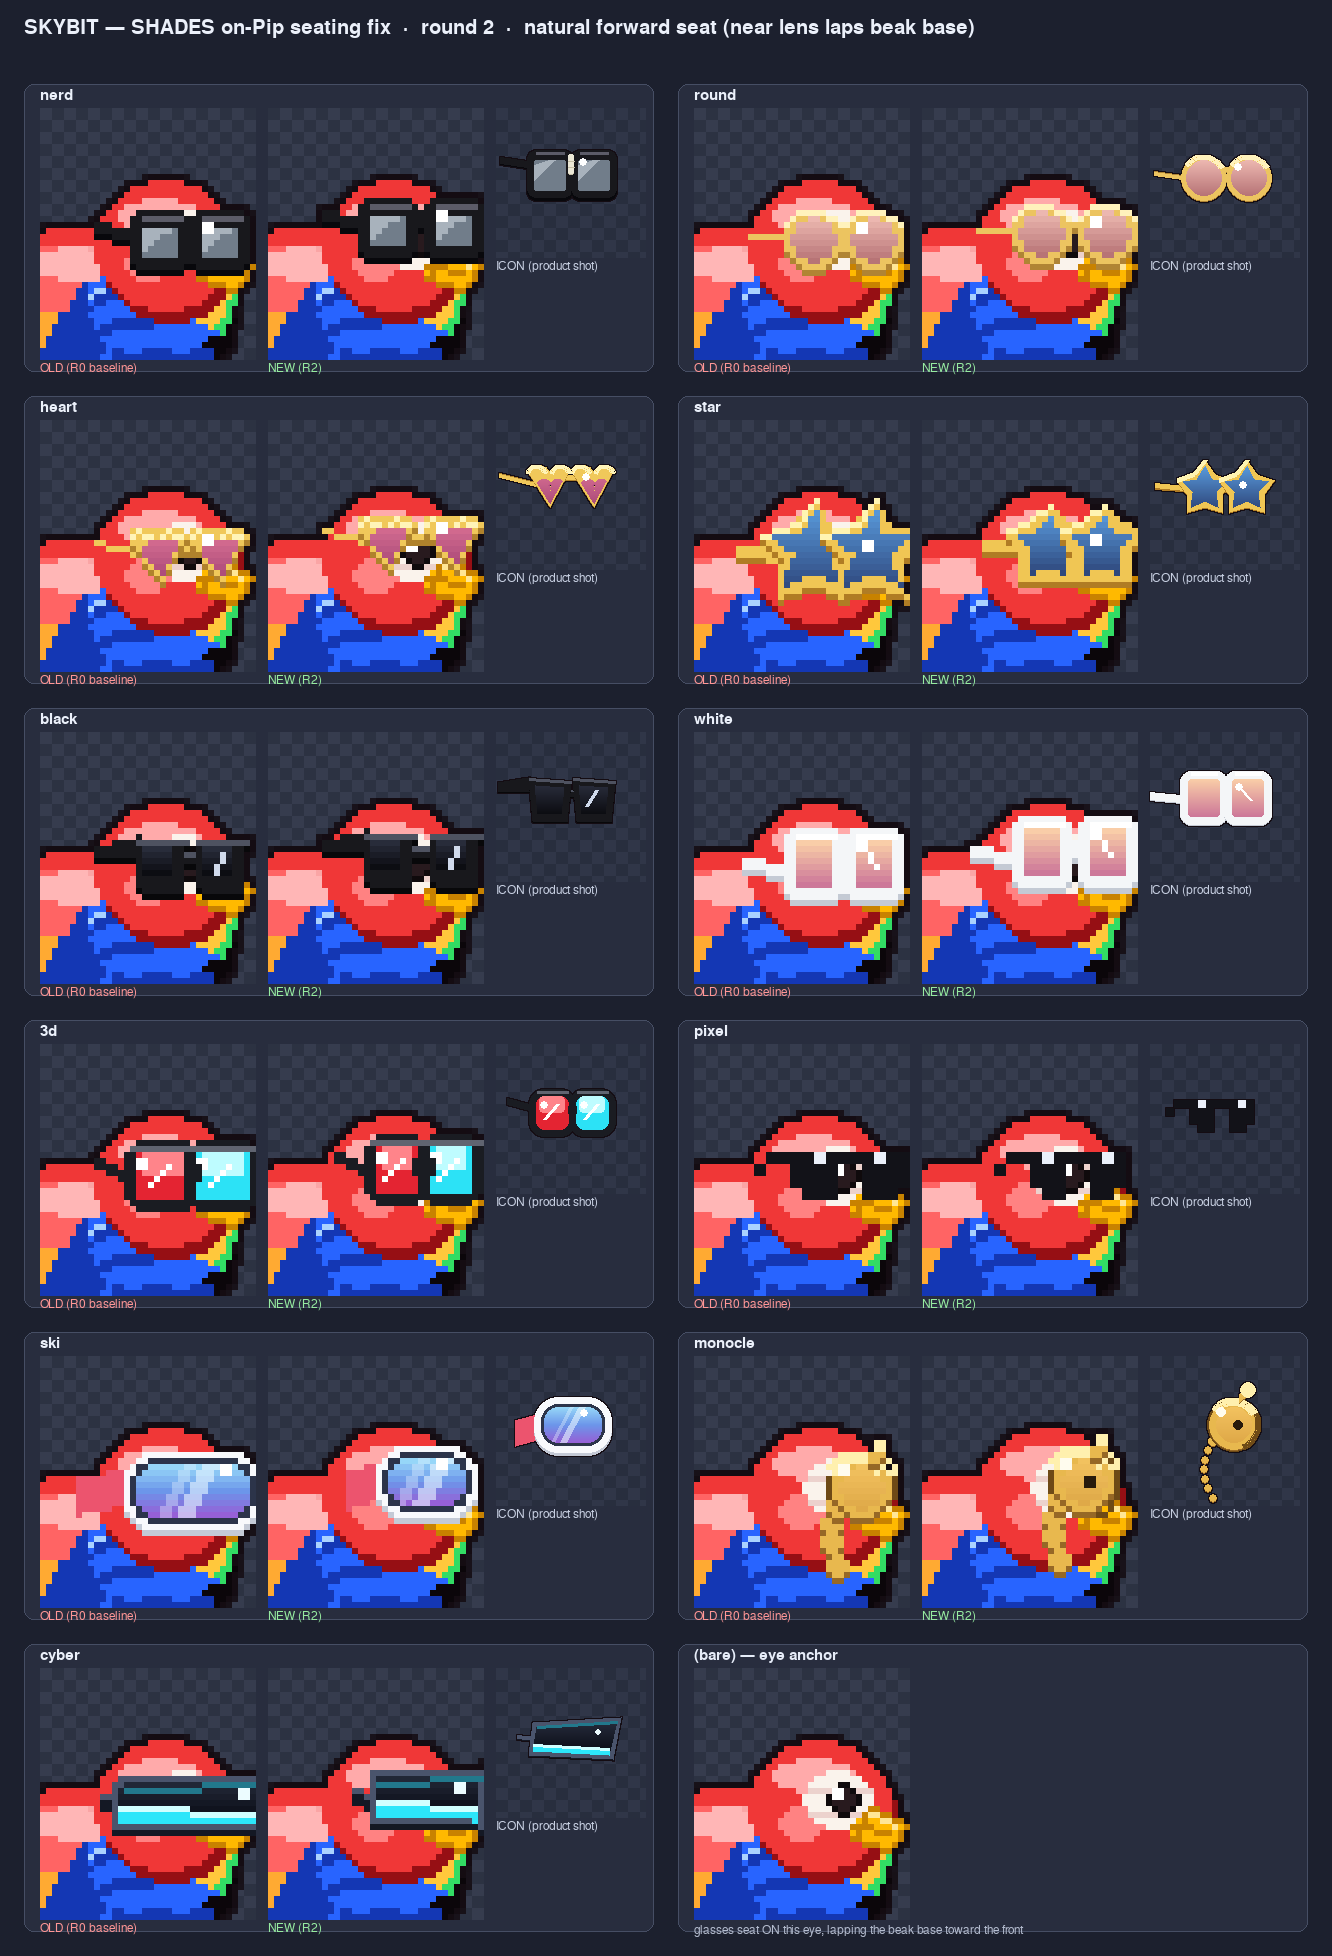
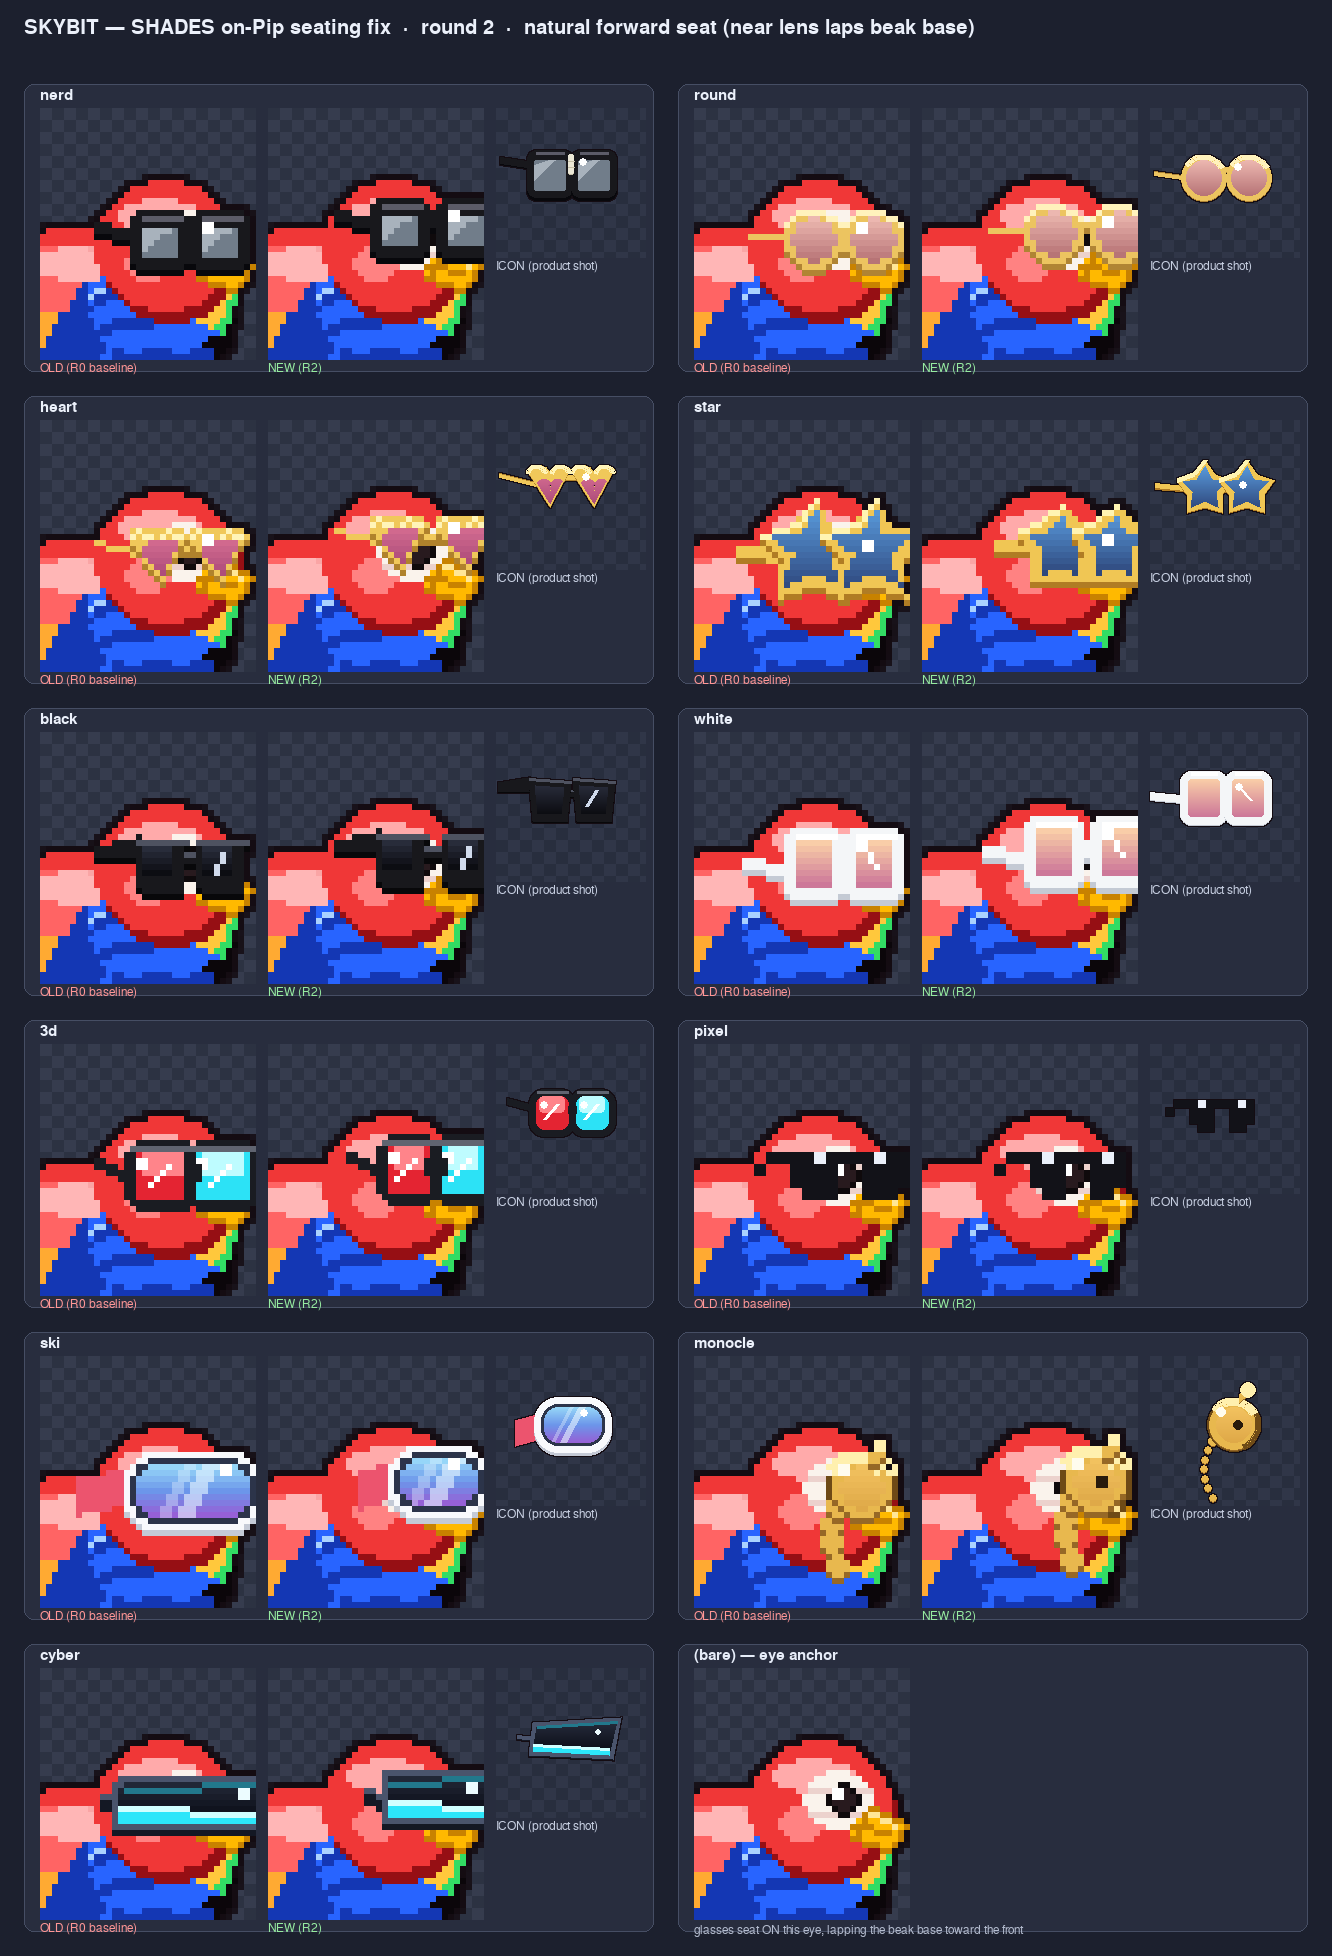
shades: nudge the in-game eyewear anchor +2px toward the beak
All 11 styles sat a touch far back over the eye. Ride the shared in-game
paint anchor forward (cx 51->53) so every style laps the beak base for a
naturally worn-forward seat, in one place rather than per-style. Product
ICONs are unaffected (they centre on their own canvas). Review sheet
regenerated to track the live anchor.

Claude-Session: https://claude.ai/code/session_01GzRCMDyuYDj6mxsvLLbTPo

diff --git a/tools/_shades_nudge_compare.py b/tools/_shades_nudge_compare.py
@@ -1,0 +1,112 @@
+"""Scratch before/after for a uniform rightward seat nudge of all 11 shades.
+
+Renders each style's on-Pip head crop at the CURRENT anchor (cx=51) beside the
+NUDGED anchor (cx=51+DX) so the few-pixel move toward the beak is obvious. The
+product ICON is unaffected by the anchor, so it isn't shown. Headless.
+
+Run:  SDL_VIDEODRIVER=dummy python tools/_shades_nudge_compare.py [DX]
+"""
+import os
+import sys
+
+os.environ.setdefault("SDL_VIDEODRIVER", "dummy")
+import pygame  # noqa: E402
+
+pygame.init()
+pygame.display.set_mode((1, 1))
+
+_ROOT = os.path.dirname(os.path.dirname(os.path.abspath(__file__)))
+if _ROOT not in sys.path:
+    sys.path.insert(0, _ROOT)
+
+from game import parrot, store_skins  # noqa: E402
+from game import (  # noqa: E402
+    shades_nerd, shades_round, shades_heart, shades_star, shades_black,
+    shades_white, shades_3d, shades_pixel, shades_ski, shades_monocle,
+    shades_cyber,
+)
+
+STYLES = [
+    ("nerd", shades_nerd), ("round", shades_round), ("heart", shades_heart),
+    ("star", shades_star), ("black", shades_black), ("white", shades_white),
+    ("3d", shades_3d), ("pixel", shades_pixel), ("ski", shades_ski),
+    ("monocle", shades_monocle), ("cyber", shades_cyber),
+]
+
+BASE_CX = 51
+
+
+def head_crop(fn, cx, zoom=6):
+    comp = pygame.Surface((store_skins.COMPOSITE_W, store_skins.COMPOSITE_H),
+                          pygame.SRCALPHA)
+    comp.blit(parrot._build_frame_bare(-8), (0, store_skins.PARROT_DY))
+    if fn:
+        fn(comp, cx, 40, 22, 1)
+    pip = parrot._add_outline(comp)
+    crop = pip.subsurface(pygame.Rect(28, 20, 36, 42)).copy()
+    return pygame.transform.scale(crop, (36 * zoom, 42 * zoom))
+
+
+def _checker(surf, rect, a=(54, 60, 78), b=(44, 50, 66), s=12):
+    for y in range(rect.top, rect.bottom, s):
+        for x in range(rect.left, rect.right, s):
+            c = a if ((x // s + y // s) % 2 == 0) else b
+            surf.fill(c, (x, y, min(s, rect.right - x), min(s, rect.bottom - y)))
+
+
+def main():
+    dx = int(sys.argv[1]) if len(sys.argv) > 1 else 2
+    pygame.font.init()
+    title_f = pygame.font.SysFont("Arial", 20, bold=True)
+    lab_f = pygame.font.SysFont("Arial", 15, bold=True)
+    sub_f = pygame.font.SysFont("Arial", 12)
+
+    ZOOM = 6
+    cw, ch = 36 * ZOOM, 42 * ZOOM
+    CELL_W = cw * 2 + 48
+    CELL_H = ch + 40
+    COLS = 3
+    rows = (len(STYLES) + COLS - 1) // COLS
+    MARGIN = 24
+    TITLE_H = 60
+    W = MARGIN * 2 + COLS * CELL_W + (COLS - 1) * MARGIN
+    H = TITLE_H + MARGIN + rows * (CELL_H + MARGIN)
+
+    sheet = pygame.Surface((W, H))
+    sheet.fill((28, 32, 46))
+    sheet.blit(title_f.render(
+        f"SKYBIT — SHADES  ·  uniform rightward seat nudge  ·  +{dx}px toward the beak",
+        True, (235, 240, 250)), (MARGIN, 18))
+
+    for i, (name, mod) in enumerate(STYLES):
+        col, row = i % COLS, i // COLS
+        x = MARGIN + col * (CELL_W + MARGIN)
+        y = TITLE_H + MARGIN + row * (CELL_H + MARGIN)
+        cell = pygame.Rect(x, y, CELL_W, CELL_H)
+        pygame.draw.rect(sheet, (40, 45, 62), cell, border_radius=10)
+        pygame.draw.rect(sheet, (70, 78, 100), cell, 1, border_radius=10)
+
+        sheet.blit(lab_f.render(name, True, (235, 240, 250)),
+                   (cell.left + 16, cell.top + 4))
+
+        ox, ny = cell.left + 16, cell.top + 24
+        r_old = pygame.Rect(ox, ny, cw, ch)
+        _checker(sheet, r_old)
+        sheet.blit(head_crop(mod.draw_shades, BASE_CX, ZOOM), r_old.topleft)
+        sheet.blit(sub_f.render(f"NOW (cx={BASE_CX})", True, (255, 180, 150)),
+                   (ox, ny + ch + 2))
+
+        nx = ox + cw + 12
+        r_new = pygame.Rect(nx, ny, cw, ch)
+        _checker(sheet, r_new)
+        sheet.blit(head_crop(mod.draw_shades, BASE_CX + dx, ZOOM), r_new.topleft)
+        sheet.blit(sub_f.render(f"NUDGED (cx={BASE_CX + dx})", True, (150, 235, 160)),
+                   (nx, ny + ch + 2))
+
+    out = os.path.join(_ROOT, "docs", "shades", "nudge_right.png")
+    pygame.image.save(sheet, out)
+    print("wrote", out, sheet.get_size())
+
+
+if __name__ == "__main__":
+    main()

diff --git a/tools/_shades_round2_compare.py b/tools/_shades_round2_compare.py
@@ -24,7 +24,7 @@ _ROOT = os.path.dirname(os.path.dirname(os.path.abspath(__file__)))
 if _ROOT not in sys.path:
     sys.path.insert(0, _ROOT)
 
-from game import parrot, store_skins  # noqa: E402
+from game import parrot, store_skins, glasses_skins  # noqa: E402
 from game import (  # noqa: E402
     shades_nerd, shades_round, shades_heart, shades_star, shades_black,
     shades_white, shades_3d, shades_pixel, shades_ski, shades_monocle,
@@ -50,12 +50,12 @@ def _old_fn(name):
     return mod.draw_shades
 
 
-def head_crop(fn, zoom=7):
+def head_crop(fn, zoom=7, cx=glasses_skins._EYE_CX):
     comp = pygame.Surface((store_skins.COMPOSITE_W, store_skins.COMPOSITE_H),
                           pygame.SRCALPHA)
     comp.blit(parrot._build_frame_bare(-8), (0, store_skins.PARROT_DY))
     if fn:
-        fn(comp, 51, 40, 22, 1)
+        fn(comp, cx, 40, 22, 1)
     pip = parrot._add_outline(comp)
     crop = pip.subsurface(pygame.Rect(28, 20, 36, 42)).copy()
     return pygame.transform.scale(crop, (36 * zoom, 42 * zoom))
@@ -119,7 +119,7 @@ def main():
                        (cell.left + 16, cell.top + ch + 28))
             continue
 
-        old = head_crop(_old_fn(name), ZOOM)
+        old = head_crop(_old_fn(name), ZOOM, cx=51)
         new = head_crop(mod.draw_shades, ZOOM)
         icon = product_shot(mod.draw_shades)
 

diff --git a/game/glasses_skins.py b/game/glasses_skins.py
@@ -68,8 +68,10 @@ def _build_icon(draw_shades) -> pygame.Surface:
 # ── in-game look: Pip wearing the shades ─────────────────────────────────────
 # The bare-eyed build draws the plain eye at sprite (50, 20); _compose blits the
 # body at PARROT_DY=20, so the eye anchors at composite (50, 40). eye_w≈24
-# matches the span of the default aviators it replaces.
-_EYE_CX, _EYE_CY = 51, 40
+# matches the span of the default aviators it replaces. The anchor rides a couple
+# px forward of the eye centre so every style laps the beak base — worn eyewear
+# grips the face toward the front rather than floating back over the ear.
+_EYE_CX, _EYE_CY = 53, 40
 _EYE_W = 22
 
 
